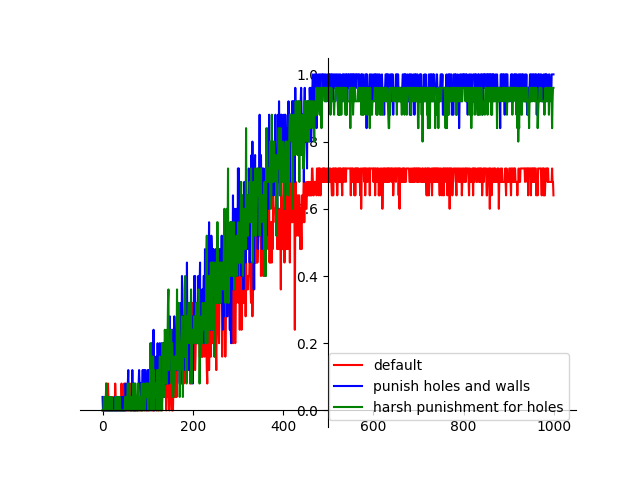
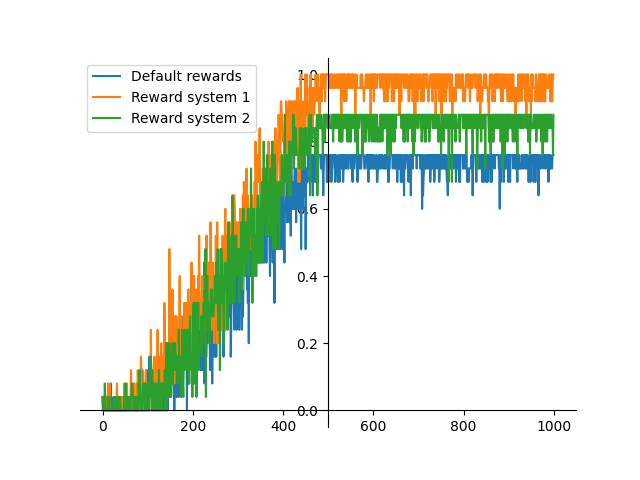
some experiment results

Changed region(s): [[0.125, 0.125, 0.875, 0.875], [0.5, 0.75, 0.9062, 0.875]]

diff --git a/main.py b/main.py
@@ -13,6 +13,7 @@ ALTERNATE_REWARD_SYSTEM_2 = RewardSystem(1, -10, 0, 0)
 
 @dataclass
 class Experiment:
+    label: str
     board_size: int
     slippery: bool
     reward_system: RewardSystem
@@ -23,10 +24,11 @@ class Experiment:
     epsilon_decay: float = 0.5
     min_epsilon: float = 0.03
     discount_factor: float = 0.9
+    n_evaluate_episodes: int = 100
 
-    def train_agent(self):
+    def make_agent(self) -> Agent:
         env = make_env(size=self.board_size, visible=False, slippery=self.slippery)
-        agent = Agent(
+        return Agent(
             env=env,
             reward_system=self.reward_system,
             n_episodes=self.n_episodes,
@@ -37,21 +39,22 @@ class Experiment:
             min_epsilon=self.min_epsilon
         )
 
-        return agent.train()
-
-    def averaged_rewards(self) -> np.ndarray:
+    def averaged_results(self) -> tuple[np.ndarray, float]:
         avg_rewards = np.zeros(self.n_episodes)
+        avg_success_rate = 0
         for _ in range(self.n_independent_runs):
-            _, rewards = self.train_agent()
+            agent = self.make_agent()
+            _, rewards = agent.train()
             avg_rewards += rewards
+            avg_success_rate += agent.evaluate(self.n_evaluate_episodes)
         avg_rewards /= self.n_independent_runs
-        return avg_rewards
+        avg_success_rate /= self.n_independent_runs
+        return avg_rewards, avg_success_rate
 
 
 @dataclass
 class PlotData:
     data: np.ndarray
-    color: str
     label: str
 
 
@@ -65,7 +68,7 @@ def compare_results(results: list[PlotData], plot_path: str = None):
     ax.xaxis.set_ticks_position('bottom')
     ax.yaxis.set_ticks_position('left')
     for result in results:
-        plt.plot(result.data, result.color, label=result.label)
+        plt.plot(result.data, label=result.label)
     plt.legend()
     if plot_path is not None:
         plt.savefig(plot_path)
@@ -90,66 +93,77 @@ def make_env(size: int = 8, visible: bool = False, slippery: bool = False):
 
 def experiment_1():
     ex_1 = Experiment(
+        label="Default rewards",
         board_size=4,
         slippery=False,
         reward_system=DEFAULT_REWARD_SYSTEM,
     )
 
     ex_2 = Experiment(
+        label="Reward system 1",
         board_size=4,
         slippery=False,
         reward_system=ALTERNATE_REWARD_SYSTEM_1,
     )
 
     ex_3 = Experiment(
+        label="Reward system 2",
         board_size=4,
         slippery=False,
         reward_system=ALTERNATE_REWARD_SYSTEM_2,
     )
 
-    r1 = ex_1.averaged_rewards()
-    r2 = ex_2.averaged_rewards()
-    r3 = ex_3.averaged_rewards()
+    experiments = [ex_1, ex_2, ex_3]
+    results = [ex.averaged_results() for ex in experiments]
+
+    print("Success rates:")
+    for ex, (_, sr) in zip(experiments, results):
+        print(f"{ex.label}: {sr * 100:.2f}%")
 
     compare_results([
-        PlotData(r1, "r", "default"),
-        PlotData(r2, "b", "punish holes and walls"),
-        PlotData(r3, "g", "harsh punishment for holes"),
+        PlotData(r, ex.label)
+        for ex, (r, _) in zip(experiments, results)
     ], "./docs/plots/experiment_1.png")
 
 
 def experiment_2():
     ex_1 = Experiment(
+        label="Default rewards",
         board_size=8,
         slippery=False,
         reward_system=DEFAULT_REWARD_SYSTEM,
     )
 
     ex_2 = Experiment(
+        label="Reward system 1",
         board_size=8,
         slippery=False,
         reward_system=ALTERNATE_REWARD_SYSTEM_1,
     )
 
     ex_3 = Experiment(
+        label="Reward system 2",
         board_size=8,
         slippery=False,
         reward_system=ALTERNATE_REWARD_SYSTEM_2,
     )
 
-    r1 = ex_1.averaged_rewards()
-    r2 = ex_2.averaged_rewards()
-    r3 = ex_3.averaged_rewards()
+    experiments = [ex_1, ex_2, ex_3]
+    results = [ex.averaged_results() for ex in experiments]
+
+    print("Success rates:")
+    for ex, (_, sr) in zip(experiments, results):
+        print(f"{ex.label}: {sr * 100:.2f}%")
 
     compare_results([
-        PlotData(r1, "r", "default"),
-        PlotData(r2, "b", "punish holes and walls"),
-        PlotData(r3, "g", "harsh punishment for holes"),
+        PlotData(r, ex.label)
+        for ex, (r, _) in zip(experiments, results)
     ], "./docs/plots/experiment_2.png")
 
 
 def experiment_3():
     ex_1 = Experiment(
+        label="Default rewards",
         board_size=4,
         slippery=True,
         reward_system=DEFAULT_REWARD_SYSTEM,
@@ -157,6 +171,7 @@ def experiment_3():
     )
 
     ex_2 = Experiment(
+        label="Reward system 1",
         board_size=4,
         slippery=True,
         reward_system=ALTERNATE_REWARD_SYSTEM_1,
@@ -164,27 +179,30 @@ def experiment_3():
     )
 
     ex_3 = Experiment(
+        label="Reward system 2",
         board_size=4,
         slippery=True,
         reward_system=ALTERNATE_REWARD_SYSTEM_2,
         n_episodes=10_000
     )
 
-    r1 = ex_1.averaged_rewards()
-    r2 = ex_2.averaged_rewards()
-    r3 = ex_3.averaged_rewards()
+    experiments = [ex_1, ex_2, ex_3]
+    results = [ex.averaged_results() for ex in experiments]
+
+    print("Success rates:")
+    for ex, (_, sr) in zip(experiments, results):
+        print(f"{ex.label}: {sr * 100:.2f}%")
 
     compare_results([
-        PlotData(r1, "r", "default"),
-        PlotData(r2, "b", "punish holes and walls"),
-        PlotData(r3, "g", "harsh punishment for holes"),
+        PlotData(r, ex.label)
+        for ex, (r, _) in zip(experiments, results)
     ], "./docs/plots/experiment_3.png")
 
 
 def main():
     experiment_1()
-    # experiment_2()
-    # experiment_3()
+    experiment_2()
+    experiment_3()
 
 
 if __name__ == '__main__':

diff --git a/q_learning.py b/q_learning.py
@@ -72,7 +72,7 @@ class Agent:
 
         return self.reward_system.on_nothing
 
-    def episode(self) -> float:
+    def episode(self, training: bool = True) -> float:
         total_rewards = 0
         state, _ = self.env.reset()
 
@@ -82,7 +82,8 @@ class Agent:
             next_state, env_reward, terminated, truncated, _ = self.env.step(action)
             response = EnvironmentResponse(state, next_state, float(env_reward), terminated, truncated)
             reward = self.calculate_reward(response)
-            self.update_q_table(state, next_state, action, reward)
+            if training:
+                self.update_q_table(state, next_state, action, reward)
 
             episode_end = truncated or terminated
             state = next_state
@@ -98,3 +99,11 @@ class Agent:
             self.decay_epsilon()
 
         return self.q_table, episode_rewards
+
+    def evaluate(self, n_episodes: int) -> float:
+        successes = 0
+        for _ in range(n_episodes):
+            if self.episode(training=False) > 0:
+                successes += 1
+
+        return successes / n_episodes

diff --git a/docs/report.md b/docs/report.md
@@ -1,14 +1,27 @@
 # Sprawozdanie
 
 ## experiment_1
+Success rates:
+* Default rewards: 73.72%
+* Reward system 1: 97.68%
+* Reward system 2: 85.60%
 
 ![plot](plots/experiment_1.png)
 
 
 ## experiment_2
+Success rates:
+* Default rewards: 0.00%
+* Reward system 1: 0.00%
+* Reward system 2: 0.00%
 
 ![plot](plots/experiment_2.png)
 
 ## experiment_3
+
+Success rates:
+* Default rewards: 12.88%
+* Reward system 1: 40.60%
+* Reward system 2: 4.28%
 
 ![plot](plots/experiment_3.png)
